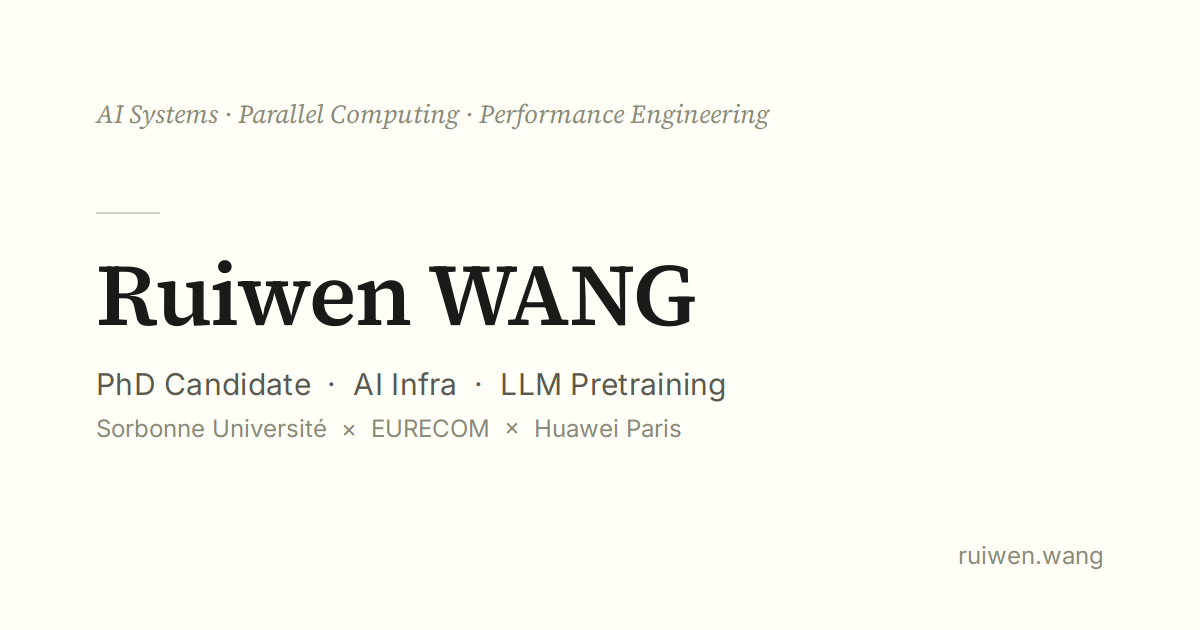
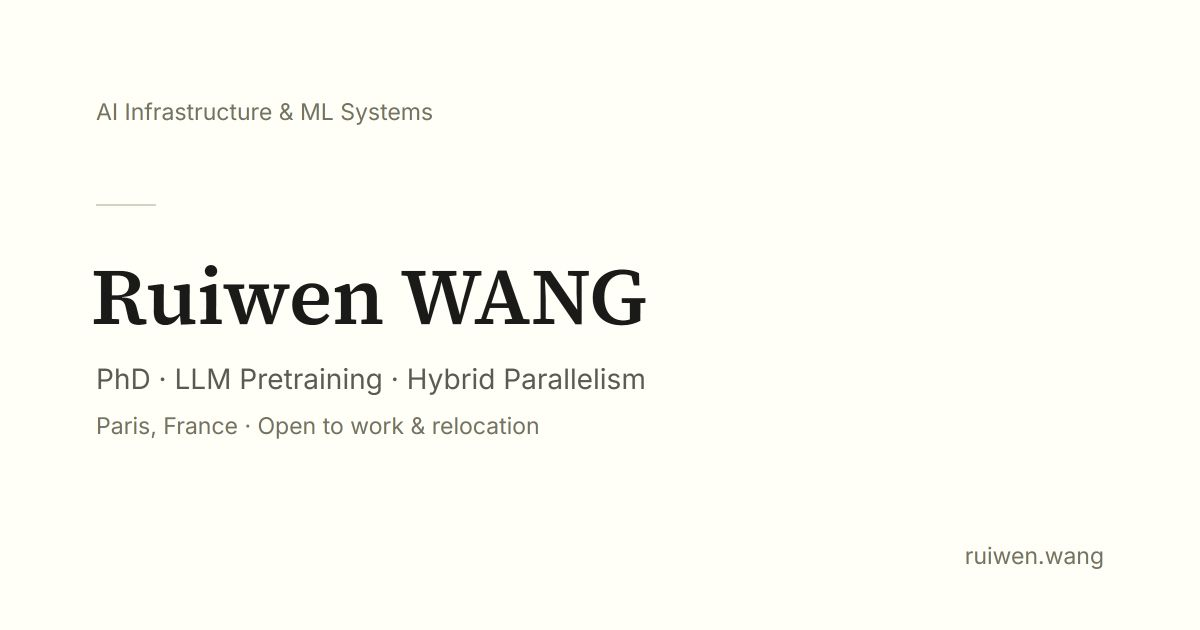
Refresh profile, refine publications, and label Timeline

diff --git a/index.html b/index.html
@@ -1,5 +1,5 @@
 <!doctype html>
-<html lang="en"><head><meta charset="utf-8"><meta name="viewport" content="width=device-width, initial-scale=1"><meta name="theme-color" content="#fffff8" media="(prefers-color-scheme:light)"><meta name="theme-color" content="#1e1e1a" media="(prefers-color-scheme:dark)"><title>Ruiwen WANG — AI Infrastructure &amp; ML Systems</title><link rel="manifest" href="/manifest.json"><meta name="application-name" content="Ruiwen WANG"><meta name="msapplication-TileImage" content="/img/favicon.png?v=3"><meta name="apple-mobile-web-app-capable" content="yes"><meta name="apple-mobile-web-app-title" content="Ruiwen WANG"><meta name="apple-mobile-web-app-status-bar-style" content="default"><meta name="description" content="AI systems for large-scale LLM training. PhD, Sorbonne Université &amp; EURECOM. Concord: NeurIPS 2026. Training systems validated on up to 16,384 NPUs."><meta name="author" content="Ruiwen WANG"><meta name="robots" content="index, follow, max-image-preview:large, max-snippet:-1"><meta property="og:type" content="profile"><meta property="profile:first_name" content="Ruiwen"><meta property="profile:last_name" content="WANG"><meta property="og:title" content="Ruiwen WANG — AI Infrastructure &amp; ML Systems"><meta property="og:url" content="https://ruiwen.wang/"><meta property="og:site_name" content="Ruiwen WANG"><meta property="og:description" content="AI systems for large-scale LLM training. PhD, Sorbonne Université &amp; EURECOM. Concord: NeurIPS 2026. Training systems validated on up to 16,384 NPUs."><meta property="og:locale" content="en_US"><meta property="og:image" content="https://ruiwen.wang/img/og_image.png"><meta property="og:image:width" content="1200"><meta property="og:image:height" content="630"><meta property="og:image:type" content="image/png"><meta property="og:image:alt" content="Ruiwen WANG — AI Infrastructure & LLM Pretraining"><meta name="twitter:card" content="summary_large_image"><meta name="twitter:title" content="Ruiwen WANG — AI Infrastructure &amp; ML Systems"><meta name="twitter:description" content="AI systems for large-scale LLM training. PhD, Sorbonne Université &amp; EURECOM. Concord: NeurIPS 2026. Training systems validated on up to 16,384 NPUs."><meta name="twitter:image" content="https://ruiwen.wang/img/og_image.png"><meta name="twitter:image:alt" content="Ruiwen WANG — AI Infrastructure & LLM Pretraining"><script type="application/ld+json">{"@context":"https://schema.org","@type":"Person","@id":"https://ruiwen.wang/#person","name":"Ruiwen WANG","givenName":"Ruiwen","familyName":"WANG","url":"https://ruiwen.wang/","image":"https://ruiwen.wang/img/og_image.png","jobTitle":"Research Engineer","worksFor":{"@type":"Organization","name":"Huawei"},"affiliation":[{"@type":"CollegeOrUniversity","name":"Sorbonne Université"},{"@type":"Organization","name":"EURECOM"}],"alumniOf":[{"@type":"CollegeOrUniversity","name":"Sorbonne Université"},{"@type":"CollegeOrUniversity","name":"Université Paris-Saclay"}],"knowsAbout":["AI Systems","Parallel Computing","LLM pretraining","Hybrid parallelism","Pipeline parallelism","Mixture of Experts","High-Performance Computing","Distributed training"],"sameAs":["https://scholar.google.com/citations?user=AR1nHEUAAAAJ","https://orcid.org/0009-0000-6709-5970","https://www.linkedin.com/in/ruiwen-wang-ai","https://github.com/wang-ruiwen"],"description":"AI systems for large-scale LLM training. PhD, Sorbonne Université & EURECOM. Concord: NeurIPS 2026. Training systems validated on up to 16,384 NPUs."}</script><script type="application/ld+json">{"@context":"https://schema.org","@graph":[{"@type":"ScholarlyArticle","@id":"https://ruiwen.wang/#publication-concord","headline":"Can Hybrid-Parallel Planning Support Alternating Model–Strategy Design? Dependency-Keyed Per-Layer Primitives for Re-Planning.","name":"Can Hybrid-Parallel Planning Support Alternating Model–Strategy Design? Dependency-Keyed Per-Layer Primitives for Re-Planning.","author":[{"@type":"Person","@id":"https://ruiwen.wang/#person","name":"Ruiwen Wang"},{"@type":"Person","name":"Thibaut Tachon"},{"@type":"Person","name":"Raja Appuswamy"},{"@type":"Person","name":"Chong Li"}],"creativeWorkStatus":"Accepted","isPartOf":{"@type":"CreativeWork","name":"NeurIPS 2026"},"url":"https://ruiwen.wang/#publication-concord","description":"Concord: dependency-keyed per-layer primitives for hybrid-parallel re-planning. Accepted at NeurIPS 2026."},{"@type":"ScholarlyArticle","headline":"PRISM: Profiling-Free Symbolic Memory-Driven Strategy Planner for Large DNN Model Training","name":"PRISM: Profiling-Free Symbolic Memory-Driven Strategy Planner for Large DNN Model Training","author":[{"@type":"Person","@id":"https://ruiwen.wang/#person","name":"Ruiwen Wang"},{"@type":"Person","name":"Philippe Fang"},{"@type":"Person","name":"Chong Li"},{"@type":"Person","name":"Thibaut Tachon"},{"@type":"Person","name":"Raja Appuswamy"}],"datePublished":"2026-01","isAccessibleForFree":true,"creator":{"@id":"https://ruiwen.wang/#person"},"isPartOf":{"@type":"CreativeWork","name":"SCA / HPCAsia 2026"},"url":"https://doi.org/10.1145/3773656.3773667","sameAs":"https://doi.org/10.1145/3773656.3773667"},{"@type":"ScholarlyArticle","headline":"MLLM Pipeline Bubble Modeling for Large-Scale Training","name":"MLLM Pipeline Bubble Modeling for Large-Scale Training","author":[{"@type":"Person","name":"Zhengdao Yu"},{"@type":"Person","@id":"https://ruiwen.wang/#person","name":"Ruiwen Wang"},{"@type":"Person","name":"Nelson Lossing"},{"@type":"Person","name":"Chong Li"}],"datePublished":"2026-01","isAccessibleForFree":true,"creator":{"@id":"https://ruiwen.wang/#person"},"isPartOf":{"@type":"CreativeWork","name":"SCA / HPCAsia 2026"}},{"@type":"ScholarlyArticle","headline":"Training Report of TeleChat3-MoE","name":"Training Report of TeleChat3-MoE","author":[{"@type":"Person","name":"Xinzhang Liu"},{"@type":"Person","name":"Chao Wang"},{"@type":"Person","name":"Zhihua Yang"},{"@type":"Person","name":"Zhuo Jiang"},{"@type":"Person","@id":"https://ruiwen.wang/#person","name":"Ruiwen Wang"}],"datePublished":"2025-12","isAccessibleForFree":true,"creator":{"@id":"https://ruiwen.wang/#person"},"publisher":{"@type":"Organization","name":"arXiv"},"url":"https://arxiv.org/abs/2512.24157","sameAs":"https://arxiv.org/abs/2512.24157"},{"@type":"ScholarlyArticle","headline":"ManuMatic: Strategy Injection for Robust Automatic Hybrid Parallelism in Distributed DNN Training","name":"ManuMatic: Strategy Injection for Robust Automatic Hybrid Parallelism in Distributed DNN Training","author":[{"@type":"Person","@id":"https://ruiwen.wang/#person","name":"Ruiwen Wang"},{"@type":"Person","name":"Chong Li"},{"@type":"Person","name":"Hongxing Wang"},{"@type":"Person","name":"Raja Appuswamy"},{"@type":"Person","name":"Yujie Yuan"}],"datePublished":"2025-11","isAccessibleForFree":true,"creator":{"@id":"https://ruiwen.wang/#person"},"isPartOf":{"@type":"CreativeWork","name":"IFIP NPC 2025"},"url":"https://doi.org/10.1007/978-3-032-10466-3_14","sameAs":"https://doi.org/10.1007/978-3-032-10466-3_14"},{"@type":"ScholarlyArticle","headline":"BMPipe: Bubble-Memory Co-optimization Strategy Planner for Very-Large DNN Training","name":"BMPipe: Bubble-Memory Co-optimization Strategy Planner for Very-Large DNN Training","author":[{"@type":"Person","@id":"https://ruiwen.wang/#person","name":"Ruiwen Wang"},{"@type":"Person","name":"Chong Li"},{"@type":"Person","name":"Thibaut Tachon"},{"@type":"Person","name":"Raja Appuswamy"},{"@type":"Person","name":"Teng Su"}],"datePublished":"2025-09","isAccessibleForFree":true,"creator":{"@id":"https://ruiwen.wang/#person"},"isPartOf":{"@type":"CreativeWork","name":"IEEE CLUSTER 2025"},"url":"https://ieeexplore.ieee.org/document/11186487/","sameAs":"https://ieeexplore.ieee.org/document/11186487/"},{"@type":"ScholarlyArticle","headline":"H²O: Holistic Hyper-Parameter Optimization for Large-Scale Deep Neural Network Training","name":"H²O: Holistic Hyper-Parameter Optimization for Large-Scale Deep Neural Network Training","author":[{"@type":"Person","@id":"https://ruiwen.wang/#person","name":"Ruiwen Wang"},{"@type":"Person","name":"Chong Li"},{"@type":"Person","name":"Raja Appuswamy"},{"@type":"Person","name":"Yujie Yuan"}],"datePublished":"2025-08","isAccessibleForFree":true,"creator":{"@id":"https://ruiwen.wang/#person"},"isPartOf":{"@type":"CreativeWork","name":"Euro-Par 2025"},"award":"Best Poster Award"},{"@type":"ScholarlyArticle","headline":"SCOPE: Symbolic Computation-Memory Optimization for Pipeline Efficiency in Ultra-Scale DNN Training","name":"SCOPE: Symbolic Computation-Memory Optimization for Pipeline Efficiency in Ultra-Scale DNN Training","author":[{"@type":"Person","@id":"https://ruiwen.wang/#person","name":"Ruiwen Wang"},{"@type":"Person","name":"Chong Li"},{"@type":"Person","name":"Thibaut Tachon"},{"@type":"Person","name":"Raja Appuswamy"}],"datePublished":"2025-06","isAccessibleForFree":true,"creator":{"@id":"https://ruiwen.wang/#person"},"isPartOf":{"@type":"CreativeWork","name":"DP2E-AI 2025 Workshop"}}]}</script><link rel="canonical" href="https://ruiwen.wang/"><link rel="icon" type="image/png" sizes="256x256" href="/img/favicon.png?v=3"><link rel="icon" type="image/svg+xml" href="/img/favicon.svg?v=3"><link rel="apple-touch-icon" href="/img/favicon.png?v=3"><link rel="dns-prefetch" href="https://sapp.ruiwen.wang"><link rel="preload" href="/fonts/source-serif-4-latin-wght-normal.woff2" as="font" type="font/woff2" crossorigin><link rel="preload" href="/fonts/inter-latin-wght-normal.woff2" as="font" type="font/woff2" crossorigin><style>
+<html lang="en"><head><meta charset="utf-8"><meta name="viewport" content="width=device-width, initial-scale=1"><meta name="theme-color" content="#fffff8" media="(prefers-color-scheme:light)"><meta name="theme-color" content="#1e1e1a" media="(prefers-color-scheme:dark)"><title>Ruiwen WANG — AI Infrastructure &amp; ML Systems</title><link rel="manifest" href="/manifest.json"><meta name="application-name" content="Ruiwen WANG"><meta name="msapplication-TileImage" content="/img/favicon.png?v=3"><meta name="apple-mobile-web-app-capable" content="yes"><meta name="apple-mobile-web-app-title" content="Ruiwen WANG"><meta name="apple-mobile-web-app-status-bar-style" content="default"><meta name="description" content="AI systems for large-scale LLM training. PhD, Sorbonne Université &amp; EURECOM. Concord: NeurIPS 2026. Training systems validated on up to 16,384 NPUs."><meta name="author" content="Ruiwen WANG"><meta name="robots" content="index, follow, max-image-preview:large, max-snippet:-1"><meta property="og:type" content="profile"><meta property="profile:first_name" content="Ruiwen"><meta property="profile:last_name" content="WANG"><meta property="og:title" content="Ruiwen WANG — AI Infrastructure &amp; ML Systems"><meta property="og:url" content="https://ruiwen.wang/"><meta property="og:site_name" content="Ruiwen WANG"><meta property="og:description" content="AI systems for large-scale LLM training. PhD, Sorbonne Université &amp; EURECOM. Concord: NeurIPS 2026. Training systems validated on up to 16,384 NPUs."><meta property="og:locale" content="en_US"><meta property="og:image" content="https://ruiwen.wang/img/og_image.png?v=20260928"><meta property="og:image:width" content="1200"><meta property="og:image:height" content="630"><meta property="og:image:type" content="image/png"><meta property="og:image:alt" content="Ruiwen WANG — AI Infrastructure &amp; ML Systems"><meta name="twitter:card" content="summary_large_image"><meta name="twitter:title" content="Ruiwen WANG — AI Infrastructure &amp; ML Systems"><meta name="twitter:description" content="AI systems for large-scale LLM training. PhD, Sorbonne Université &amp; EURECOM. Concord: NeurIPS 2026. Training systems validated on up to 16,384 NPUs."><meta name="twitter:image" content="https://ruiwen.wang/img/og_image.png?v=20260928"><meta name="twitter:image:alt" content="Ruiwen WANG — AI Infrastructure &amp; ML Systems"><script type="application/ld+json">{"@context":"https://schema.org","@type":"Person","@id":"https://ruiwen.wang/#person","name":"Ruiwen WANG","givenName":"Ruiwen","familyName":"WANG","url":"https://ruiwen.wang/","image":"https://ruiwen.wang/img/og_image.png?v=20260928","alumniOf":[{"@type":"CollegeOrUniversity","name":"Sorbonne Université"},{"@type":"CollegeOrUniversity","name":"Université Paris-Saclay"}],"knowsAbout":["AI Systems","Parallel Computing","LLM pretraining","Hybrid parallelism","Pipeline parallelism","Mixture of Experts","High-Performance Computing","Distributed training"],"sameAs":["https://scholar.google.com/citations?user=AR1nHEUAAAAJ","https://orcid.org/0009-0000-6709-5970","https://www.linkedin.com/in/ruiwen-wang-ai"],"description":"AI systems for large-scale LLM training. PhD, Sorbonne Université & EURECOM. Concord: NeurIPS 2026. Training systems validated on up to 16,384 NPUs."}</script><script type="application/ld+json">{"@context":"https://schema.org","@graph":[{"@type":"ScholarlyArticle","@id":"https://ruiwen.wang/#publication-concord","headline":"Can Hybrid-Parallel Planning Support Alternating Model–Strategy Design? Dependency-Keyed Per-Layer Primitives for Re-Planning.","name":"Can Hybrid-Parallel Planning Support Alternating Model–Strategy Design? Dependency-Keyed Per-Layer Primitives for Re-Planning.","author":[{"@type":"Person","@id":"https://ruiwen.wang/#person","name":"Ruiwen Wang"},{"@type":"Person","name":"Thibaut Tachon"},{"@type":"Person","name":"Raja Appuswamy"},{"@type":"Person","name":"Chong Li"}],"creativeWorkStatus":"Accepted","isPartOf":{"@type":"CreativeWork","name":"NeurIPS 2026"},"url":"https://ruiwen.wang/#publication-concord","description":"Concord: dependency-keyed per-layer primitives for hybrid-parallel re-planning. Accepted at NeurIPS 2026."},{"@type":"ScholarlyArticle","headline":"PRISM: Profiling-Free Symbolic Memory-Driven Strategy Planner for Large DNN Model Training","name":"PRISM: Profiling-Free Symbolic Memory-Driven Strategy Planner for Large DNN Model Training","author":[{"@type":"Person","@id":"https://ruiwen.wang/#person","name":"Ruiwen Wang"},{"@type":"Person","name":"Philippe Fang"},{"@type":"Person","name":"Chong Li"},{"@type":"Person","name":"Thibaut Tachon"},{"@type":"Person","name":"Raja Appuswamy"}],"datePublished":"2026-01","isAccessibleForFree":true,"creator":{"@id":"https://ruiwen.wang/#person"},"isPartOf":{"@type":"CreativeWork","name":"SCA / HPCAsia 2026"},"url":"https://doi.org/10.1145/3773656.3773667","sameAs":"https://doi.org/10.1145/3773656.3773667"},{"@type":"ScholarlyArticle","headline":"MLLM Pipeline Bubble Modeling for Large-Scale Training","name":"MLLM Pipeline Bubble Modeling for Large-Scale Training","author":[{"@type":"Person","name":"Zhengdao Yu"},{"@type":"Person","@id":"https://ruiwen.wang/#person","name":"Ruiwen Wang"},{"@type":"Person","name":"Nelson Lossing"},{"@type":"Person","name":"Chong Li"}],"datePublished":"2026-01","isAccessibleForFree":true,"creator":{"@id":"https://ruiwen.wang/#person"},"isPartOf":{"@type":"CreativeWork","name":"SCA / HPCAsia 2026"}},{"@type":"ScholarlyArticle","headline":"Training Report of TeleChat3-MoE","name":"Training Report of TeleChat3-MoE","author":[{"@type":"Person","name":"Xinzhang Liu"},{"@type":"Person","name":"Chao Wang"},{"@type":"Person","name":"Zhihua Yang"},{"@type":"Person","name":"Zhuo Jiang"},{"@type":"Person","@id":"https://ruiwen.wang/#person","name":"Ruiwen Wang"}],"datePublished":"2025-12","isAccessibleForFree":true,"creator":{"@id":"https://ruiwen.wang/#person"},"publisher":{"@type":"Organization","name":"arXiv"},"url":"https://arxiv.org/abs/2512.24157","sameAs":"https://arxiv.org/abs/2512.24157"},{"@type":"ScholarlyArticle","headline":"ManuMatic: Strategy Injection for Robust Automatic Hybrid Parallelism in Distributed DNN Training","name":"ManuMatic: Strategy Injection for Robust Automatic Hybrid Parallelism in Distributed DNN Training","author":[{"@type":"Person","@id":"https://ruiwen.wang/#person","name":"Ruiwen Wang"},{"@type":"Person","name":"Chong Li"},{"@type":"Person","name":"Hongxing Wang"},{"@type":"Person","name":"Raja Appuswamy"},{"@type":"Person","name":"Yujie Yuan"}],"datePublished":"2025-11","isAccessibleForFree":true,"creator":{"@id":"https://ruiwen.wang/#person"},"isPartOf":{"@type":"CreativeWork","name":"IFIP NPC 2025"},"url":"https://doi.org/10.1007/978-3-032-10466-3_14","sameAs":"https://doi.org/10.1007/978-3-032-10466-3_14"},{"@type":"ScholarlyArticle","headline":"BMPipe: Bubble-Memory Co-optimization Strategy Planner for Very-Large DNN Training","name":"BMPipe: Bubble-Memory Co-optimization Strategy Planner for Very-Large DNN Training","author":[{"@type":"Person","@id":"https://ruiwen.wang/#person","name":"Ruiwen Wang"},{"@type":"Person","name":"Chong Li"},{"@type":"Person","name":"Thibaut Tachon"},{"@type":"Person","name":"Raja Appuswamy"},{"@type":"Person","name":"Teng Su"}],"datePublished":"2025-09","isAccessibleForFree":true,"creator":{"@id":"https://ruiwen.wang/#person"},"isPartOf":{"@type":"CreativeWork","name":"IEEE CLUSTER 2025"},"url":"https://ieeexplore.ieee.org/document/11186487/","sameAs":"https://ieeexplore.ieee.org/document/11186487/"},{"@type":"ScholarlyArticle","headline":"H²O: Holistic Hyper-Parameter Optimization for Large-Scale Deep Neural Network Training","name":"H²O: Holistic Hyper-Parameter Optimization for Large-Scale Deep Neural Network Training","author":[{"@type":"Person","@id":"https://ruiwen.wang/#person","name":"Ruiwen Wang"},{"@type":"Person","name":"Chong Li"},{"@type":"Person","name":"Raja Appuswamy"},{"@type":"Person","name":"Yujie Yuan"}],"datePublished":"2025-08","isAccessibleForFree":true,"creator":{"@id":"https://ruiwen.wang/#person"},"isPartOf":{"@type":"CreativeWork","name":"Euro-Par 2025"},"award":"Best Poster Award"},{"@type":"ScholarlyArticle","headline":"SCOPE: Symbolic Computation-Memory Optimization for Pipeline Efficiency in Ultra-Scale DNN Training","name":"SCOPE: Symbolic Computation-Memory Optimization for Pipeline Efficiency in Ultra-Scale DNN Training","author":[{"@type":"Person","@id":"https://ruiwen.wang/#person","name":"Ruiwen Wang"},{"@type":"Person","name":"Chong Li"},{"@type":"Person","name":"Thibaut Tachon"},{"@type":"Person","name":"Raja Appuswamy"}],"datePublished":"2025-06","isAccessibleForFree":true,"creator":{"@id":"https://ruiwen.wang/#person"},"isPartOf":{"@type":"CreativeWork","name":"DP2E-AI 2025 Workshop"}}]}</script><link rel="canonical" href="https://ruiwen.wang/"><link rel="icon" type="image/png" sizes="256x256" href="/img/favicon.png?v=3"><link rel="icon" type="image/svg+xml" href="/img/favicon.svg?v=3"><link rel="apple-touch-icon" href="/img/favicon.png?v=3"><link rel="dns-prefetch" href="https://sapp.ruiwen.wang"><link rel="preload" href="/fonts/source-serif-4-latin-wght-normal.woff2" as="font" type="font/woff2" crossorigin><link rel="preload" href="/fonts/inter-latin-wght-normal.woff2" as="font" type="font/woff2" crossorigin><style>
 @font-face{font-family:'Source Serif 4';font-style:normal;font-weight:400 700;font-display:swap;src:url('/fonts/source-serif-4-latin-wght-normal.woff2') format('woff2');}
 @font-face{font-family:'Source Serif 4';font-style:italic;font-weight:400 700;font-display:swap;src:url('/fonts/source-serif-4-latin-wght-italic.woff2') format('woff2');}
 @font-face{font-family:'Inter';font-style:normal;font-weight:400 700;font-display:swap;src:url('/fonts/inter-latin-wght-normal.woff2') format('woff2');}
@@ -21,6 +21,9 @@
   --rw-avatar-ring:rgba(180,175,155,0.42);
   --rw-shadow:0 1px 3px rgba(26,26,24,0.06),0 8px 24px rgba(26,26,24,0.04);
   --rw-maxw:808px;
+  --rw-award:#765a27;
+  --rw-award-soft:rgba(160,127,64,0.08);
+  --rw-award-line:rgba(160,127,64,0.30);
   color-scheme:light;
 }
 @media (prefers-color-scheme:dark){
@@ -40,6 +43,9 @@
     --rw-border:rgba(175,170,148,0.20);
     --rw-avatar-ring:rgba(175,170,148,0.28);
     --rw-shadow:0 1px 3px rgba(0,0,0,0.35),0 8px 24px rgba(0,0,0,0.28);
+    --rw-award:#dbc28e;
+    --rw-award-soft:rgba(204,174,113,0.10);
+    --rw-award-line:rgba(204,174,113,0.30);
     color-scheme:dark;
   }
 }
@@ -350,11 +356,11 @@ a{color:var(--rw-accent-dark);}
   align-items:center;
   gap:0.55rem;
   flex-wrap:wrap;
-  margin-bottom:0.45rem;
+  margin-bottom:0.65rem;
 }
 .rw-itemcard-head h3{
-  font-size:1.1rem;
-  font-weight:700;
+  font-size:1.05rem;
+  font-weight:600;
   color:var(--rw-accent-dark);
   margin:0;
   letter-spacing:-0.005em;
@@ -367,51 +373,39 @@ a{color:var(--rw-accent-dark);}
 }
 .rw-itemcard-body p.rw-card-result{
   font-size:0.89rem;
-  color:var(--rw-text);
-  margin-top:0.7rem;
+  color:var(--rw-text-muted);
+  border-left:2px solid var(--rw-line);
+  padding-left:0.8rem;
+  margin-top:0.75rem;
   margin-bottom:0;
 }
-.rw-itemcard-links{margin-top:0.55rem;}
+.rw-itemcard-links{display:flex;flex-wrap:wrap;gap:0.35rem 1rem;margin-top:0.85rem;}
 .rw-itemcard-links a{
-  font-size:0.7rem;
-  font-weight:600;
+  font-size:0.76rem;
+  font-weight:500;
   color:var(--rw-text-muted);
   text-decoration:none;
-  padding:0.15rem 0.5rem;
-  border-radius:4px;
-  background:var(--rw-surface-soft);
-  border:1px solid var(--rw-border);
-  margin-right:0.35rem;
-  letter-spacing:0.04em;
-  text-transform:uppercase;
-  transition:all 0.2s ease;
-  display:inline-block;
+  padding:0.1rem 0;
+  border-bottom:1px solid var(--rw-line);
+  transition:color 0.2s ease,border-color 0.2s ease;
 }
-.rw-itemcard-links a:hover{
-  background:var(--rw-accent-soft);
-  color:var(--rw-ink);
-  border-color:var(--rw-text-soft);
-}
+.rw-itemcard-links a:hover{color:var(--rw-ink);border-color:var(--rw-text-soft);}
 
-/* Badge */
+/* Venue and award labels */
 .rw-badge{
-  font-size:0.7rem;
-  font-weight:600;
-  letter-spacing:0.03em;
+  font-size:0.73rem;
+  font-weight:500;
+  line-height:1.5;
   color:var(--rw-text-muted);
-  background:var(--rw-surface-soft);
-  border:1px solid var(--rw-border);
-  padding:0.15rem 0.5rem;
-  border-radius:4px;
-  text-transform:uppercase;
+  border:1px solid var(--rw-line);
+  padding:0.18rem 0.6rem;
+  border-radius:999px;
   white-space:nowrap;
 }
-/* Award badge — an honour, not a venue: a filled, inverted pill that
-   sets it apart from the neutral conference tag beside it */
 .rw-badge-award{
-  color:var(--rw-bg);
-  background:var(--rw-ink);
-  border-color:var(--rw-ink);
+  color:var(--rw-award);
+  background:var(--rw-award-soft);
+  border-color:var(--rw-award-line);
 }
 
 /* Publication metadata */
@@ -542,13 +536,13 @@ a{color:var(--rw-accent-dark);}
 
 /* Research and publication hierarchy */
 .rw-anchor{display:block;height:0;scroll-margin-top:var(--rw-scroll-offset, 7rem);}
-.rw-work{padding:1.4rem 0;border-bottom:1px solid var(--rw-line);scroll-margin-top:var(--rw-scroll-offset, 7rem);}
+.rw-work{padding:1.6rem 0;border-bottom:1px solid var(--rw-line);scroll-margin-top:var(--rw-scroll-offset, 7rem);}
 .rw-work:first-of-type{padding-top:0;}
 .rw-work:last-of-type{border-bottom:none;}
-.rw-work .rw-pubtitle{font-size:1rem;line-height:1.5;margin:0.55rem 0 0.4rem;text-wrap:pretty;}
+.rw-work .rw-pubtitle{font-size:1.08rem;line-height:1.5;margin:0 0 0.5rem;text-wrap:pretty;}
+.rw-work .rw-pubtitle em{font-style:normal;font-weight:500;}
 .rw-itemcard-body .rw-pubauthors{font-size:0.85rem;color:var(--rw-text-muted);line-height:1.55;}
 .rw-itemcard-body .rw-pubvenue{font-size:0.77rem;color:var(--rw-text-soft);line-height:1.6;}
-.rw-publication-only .rw-pubtitle{margin-top:0;font-weight:500;}
 .rw-work .rw-work-method{margin:0.8rem 0 0.45rem;}
 .rw-hero-social{align-items:center;flex-wrap:wrap;}
 .rw-hero-social a{display:inline-flex;align-items:center;gap:0.4rem;}
@@ -592,13 +586,13 @@ a{color:var(--rw-accent-dark);}
 
 <a class="rw-skip" href="#rw-main">Skip to content</a>
 <div class="rw-progress" id="rw-progress" aria-hidden="true"></div>
-<nav class="rw-topnav" aria-label="Section"><div class="rw-topnav-inner"><a href="#about">About</a><a href="#research">Research</a><a href="#publications">Publications</a><a href="#patents">Patents</a><a href="#awards">Awards</a><a href="#experience">Experience</a><a href="#education">Education</a><a href="#news">News</a></div></nav>
+<nav class="rw-topnav" aria-label="Section"><div class="rw-topnav-inner"><a href="#about">About</a><a href="#research">Research</a><a href="#publications">Publications</a><a href="#patents">Patents</a><a href="#awards">Awards</a><a href="#experience">Experience</a><a href="#education">Education</a><a href="#news">Timeline</a></div></nav>
 
 <header class="rw-hero">
 <picture><source srcset="/images/avatar.webp" type="image/webp"><img class="rw-hero-avatar" src="/images/avatar.jpg" alt="Ruiwen WANG" width="384" height="384" fetchpriority="high" decoding="async"></picture>
 <h1 class="rw-hero-name">Ruiwen WANG</h1>
 <p class="rw-hero-subtitle">PhD&nbsp;· AI Infra&nbsp;· LLM Pretraining&nbsp;· Hybrid Parallelism</p>
-<p class="rw-hero-affil">Sorbonne Université&nbsp;× EURECOM&nbsp;× Huawei Paris&nbsp;· Paris, France</p>
+<p class="rw-hero-affil">Paris, France</p>
 <p class="rw-hero-status"><span class="rw-status-dot" aria-hidden="true"></span>Open to work &amp; relocation</p>
 <div class="rw-hero-social">
 <a href="mailto:wangrw0124@gmail.com" title="Email" aria-label="Email"><svg viewBox="0 0 16 16" aria-hidden="true" focusable="false"><path d="M.05 3.555A2 2 0 0 1 2 2h12a2 2 0 0 1 1.95 1.555L8 8.414zM0 4.697v7.104l5.803-3.558zM6.761 8.83l-6.57 4.027A2 2 0 0 0 2 14h12a2 2 0 0 0 1.808-1.144l-6.57-4.027L8 9.586zm3.436-.586L16 11.801V4.697z"/></svg><span>Email</span></a>
@@ -606,7 +600,6 @@ a{color:var(--rw-accent-dark);}
 <a href="https://scholar.google.com/citations?user=AR1nHEUAAAAJ" target="_blank" rel="noopener" title="Google Scholar" aria-label="Google Scholar"><svg viewBox="0 0 24 24" aria-hidden="true" focusable="false"><path d="M5.242 13.769L0 9.5 12 0l12 9.5-5.242 4.269C17.548 11.249 14.978 9.5 12 9.5c-2.977 0-5.548 1.748-6.758 4.269zM12 10a7 7 0 1 0 0 14 7 7 0 0 0 0-14z"/></svg></a>
 <a href="https://orcid.org/0009-0000-6709-5970" target="_blank" rel="noopener" title="ORCID" aria-label="ORCID"><svg viewBox="0 0 24 24" aria-hidden="true" focusable="false"><path d="M12 0C5.372 0 0 5.372 0 12s5.372 12 12 12 12-5.372 12-12S18.628 0 12 0zM7.369 4.378c.525 0 .947.431.947.947 0 .525-.422.947-.947.947-.525 0-.946-.422-.946-.947 0-.516.421-.947.946-.947zm-.722 3.038h1.444v10.041H6.647V7.416zm3.562 0h3.9c3.712 0 5.344 2.653 5.344 5.025 0 2.578-2.016 5.025-5.325 5.025h-3.919V7.416zm1.444 1.303v7.444h2.297c2.359 0 3.588-1.781 3.588-3.722 0-1.781-1.137-3.722-3.588-3.722h-2.297z"/></svg></a>
 <a href="https://www.linkedin.com/in/ruiwen-wang-ai" target="_blank" rel="noopener" title="LinkedIn" aria-label="LinkedIn"><svg viewBox="0 0 24 24" aria-hidden="true" focusable="false"><path d="M20.447 20.452h-3.554v-5.569c0-1.328-.027-3.037-1.852-3.037-1.853 0-2.136 1.445-2.136 2.939v5.667H9.351V9h3.414v1.561h.046c.477-.9 1.637-1.85 3.37-1.85 3.601 0 4.267 2.37 4.267 5.455v6.286zM5.337 7.433c-1.144 0-2.063-.926-2.063-2.065 0-1.138.92-2.063 2.063-2.063 1.14 0 2.064.925 2.064 2.063 0 1.139-.925 2.065-2.064 2.065zm1.782 13.019H3.555V9h3.564v11.452zM22.225 0H1.771C.792 0 0 .774 0 1.729v20.542C0 23.227.792 24 1.771 24h20.451C23.2 24 24 23.227 24 22.271V1.729C24 .774 23.2 0 22.222 0h.003z"/></svg></a>
-<a href="https://github.com/wang-ruiwen" target="_blank" rel="noopener" title="GitHub" aria-label="GitHub"><svg viewBox="0 0 24 24" aria-hidden="true" focusable="false"><path d="M12 .297c-6.63 0-12 5.373-12 12 0 5.303 3.438 9.8 8.205 11.385.6.113.82-.258.82-.577 0-.285-.01-1.04-.015-2.04-3.338.724-4.042-1.61-4.042-1.61C4.422 18.07 3.633 17.7 3.633 17.7c-1.087-.744.084-.729.084-.729 1.205.084 1.838 1.236 1.838 1.236 1.07 1.835 2.809 1.305 3.495.998.108-.776.417-1.305.76-1.605-2.665-.305-5.467-1.334-5.467-5.931 0-1.311.469-2.381 1.236-3.221-.124-.303-.535-1.524.117-3.176 0 0 1.008-.322 3.301 1.23A11.509 11.509 0 0112 5.803c1.02.005 2.047.138 3.006.404 2.291-1.552 3.297-1.23 3.297-1.23.653 1.653.242 2.874.118 3.176.77.84 1.235 1.911 1.235 3.221 0 4.609-2.807 5.624-5.479 5.921.43.372.823 1.102.823 2.222 0 1.606-.015 2.898-.015 3.293 0 .322.218.694.825.576C20.565 22.092 24 17.592 24 12.297c0-6.627-5.373-12-12-12"/></svg></a>
 </div>
 </header>
 
@@ -648,14 +641,16 @@ a{color:var(--rw-accent-dark);}
 <div class="rw-itemcard-links"><a href="https://doi.org/10.1145/3773656.3773667" rel="noopener" target="_blank">ACM DL</a><a href="https://atomgit.com/mindspore/hyper-parallel/tree/master/hyper_parallel/auto_parallel/sapp_nd" rel="noopener" target="_blank">SAPP-ND code</a><a href="#demo">→ SAPP demo</a></div>
 </div></article>
 
-<article class="rw-work rw-publication-only" id="publication-mllm-pipeline"><div class="rw-itemcard-body">
-<h3 class="rw-pubtitle"><em>MLLM Pipeline Bubble Modeling for Large-Scale Training.</em></h3>
+<article class="rw-work" id="publication-mllm-pipeline"><div class="rw-itemcard-body">
+<div class="rw-itemcard-head"><h3>MLLM Pipeline</h3><span class="rw-badge">SCA / HPCAsia 2026</span></div>
+<p class="rw-pubtitle"><em>MLLM Pipeline Bubble Modeling for Large-Scale Training.</em></p>
 <p class="rw-pubauthors">Zhengdao Yu, <strong>Ruiwen Wang</strong>, Nelson Lossing, Chong Li.</p>
 <p class="rw-pubvenue">SCA / HPCAsia 2026, Osaka, Japan · Jan 26–29, 2026</p>
 </div></article>
 
-<article class="rw-work rw-publication-only" id="publication-telechat3"><div class="rw-itemcard-body">
-<h3 class="rw-pubtitle"><em>Training Report of TeleChat3-MoE.</em></h3>
+<article class="rw-work" id="publication-telechat3"><div class="rw-itemcard-body">
+<div class="rw-itemcard-head"><h3>TeleChat3-MoE</h3><span class="rw-badge">arXiv 2025</span></div>
+<p class="rw-pubtitle"><em>Training Report of TeleChat3-MoE.</em></p>
 <p class="rw-pubauthors">Xinzhang Liu, Chao Wang, Zhihua Yang, Zhuo Jiang, …, <strong>Ruiwen Wang</strong>, <em>et al.</em></p>
 <p class="rw-pubvenue">arXiv preprint · Dec 2025</p>
 <div class="rw-itemcard-links"><a href="https://arxiv.org/abs/2512.24157" rel="noopener" target="_blank">arXiv</a></div>
@@ -682,7 +677,7 @@ a{color:var(--rw-accent-dark);}
 </div></article>
 
 <article class="rw-work" id="publication-h2o"><div class="rw-itemcard-body">
-<div class="rw-itemcard-head"><h3>H²O</h3><span class="rw-badge">Euro-Par 2025</span><span class="rw-badge rw-badge-award">Best Poster</span></div>
+<div class="rw-itemcard-head"><h3>H²O</h3><span class="rw-badge">Euro-Par 2025</span><span class="rw-badge rw-badge-award">Best Poster Award</span></div>
 <p class="rw-pubtitle"><em>H²O: Holistic Hyper-Parameter Optimization for Large-Scale Deep Neural Network Training.</em></p>
 <p class="rw-pubauthors"><strong>Ruiwen Wang</strong>, Chong Li, Raja Appuswamy, Yujie Yuan.</p>
 <p class="rw-pubvenue">Poster · 31st Euro-Par · Dresden, Germany · Aug 25–29, 2025</p>
@@ -691,8 +686,9 @@ a{color:var(--rw-accent-dark);}
 <div class="rw-itemcard-links"><a href="#demo">→ SAPP demo</a></div>
 </div></article>
 
-<article class="rw-work rw-publication-only" id="publication-scope"><div class="rw-itemcard-body">
-<h3 class="rw-pubtitle"><em>SCOPE — Symbolic Computation-Memory Optimization for Pipeline Efficiency in Ultra-Scale DNN Training.</em></h3>
+<article class="rw-work" id="publication-scope"><div class="rw-itemcard-body">
+<div class="rw-itemcard-head"><h3>SCOPE</h3><span class="rw-badge">DP2E-AI 2025</span></div>
+<p class="rw-pubtitle"><em>SCOPE — Symbolic Computation-Memory Optimization for Pipeline Efficiency in Ultra-Scale DNN Training.</em></p>
 <p class="rw-pubauthors"><strong>Ruiwen Wang</strong>, Chong Li, Thibaut Tachon, Raja Appuswamy.</p>
 <p class="rw-pubvenue">DP2E-AI 2025 Workshop, Paris, France · Jun 2–6, 2025</p>
 </div></article>
@@ -736,7 +732,7 @@ a{color:var(--rw-accent-dark);}
 <section class="rw-section" id="experience">
 <h2>Experience</h2>
 <ul class="rw-cv-list">
-<li><span class="rw-cv-year">2023–</span><span class="rw-cv-body"><strong>Huawei Paris</strong> — Ph.D. Researcher (CIFRE) <span class="rw-people-role">· compute, memory and communication cost models and optimisation-based planners for the LLM-pretraining stack — shipped in MindSpore&nbsp;/&nbsp;MindFormers, benchmarked against Megatron-LM, validated up to 16,384&nbsp;NPUs</span></span></li>
+<li><span class="rw-cv-year">2023–26</span><span class="rw-cv-body"><strong>Huawei Paris</strong> — Ph.D. Researcher (CIFRE) <span class="rw-people-role">· compute, memory and communication cost models and optimisation-based planners for the LLM-pretraining stack — shipped in MindSpore&nbsp;/&nbsp;MindFormers, benchmarked against Megatron-LM, validated up to 16,384&nbsp;NPUs</span></span></li>
 <li><span class="rw-cv-year">2021–23</span><span class="rw-cv-body"><strong>Huawei Paris</strong> — Research Apprentice → Research Engineer <span class="rw-people-role">· profiling, bottleneck analysis and performance tuning for large-scale LLM training and inference on Ascend-910 production clusters</span></span></li>
 </ul>
 </section>
@@ -751,7 +747,7 @@ a{color:var(--rw-accent-dark);}
 </section>
 
 <section class="rw-section" id="news">
-<h2>News</h2>
+<h2>Timeline</h2>
 <ol class="rw-news" role="list">
 <li class="rw-news-item"><time class="rw-news-date" datetime="2026-09">2026.09</time><div class="rw-news-text"><strong>Concord</strong> accepted at <strong>NeurIPS 2026</strong>.</div></li>
 <li class="rw-news-item"><time class="rw-news-date" datetime="2026-07-24">2026.07</time><div class="rw-news-text">Successfully defended my PhD thesis, <em>Systematic and Portable Optimisation of Hybrid Parallelism for Large-Scale Distributed Training</em>, at Sorbonne Université.</div></li>
@@ -807,7 +803,6 @@ a{color:var(--rw-accent-dark);}
 <a href="/cv/ruiwen-wang-cv.pdf">CV (PDF)</a> ·
 <a href="https://orcid.org/0009-0000-6709-5970" target="_blank" rel="noopener">ORCID</a> ·
 <a href="https://scholar.google.com/citations?user=AR1nHEUAAAAJ" target="_blank" rel="noopener">Google Scholar</a> ·
-<a href="https://github.com/wang-ruiwen" target="_blank" rel="noopener">GitHub</a> ·
 <a href="https://www.linkedin.com/in/ruiwen-wang-ai" target="_blank" rel="noopener">LinkedIn</a>
 </p>
 <p class="rw-footer-meta">Last updated <time datetime="2026-09-28">September 2026</time> · <a href="https://github.com/wang-ruiwen/wang-ruiwen.github.io" target="_blank" rel="noopener">Source on GitHub</a></p>
